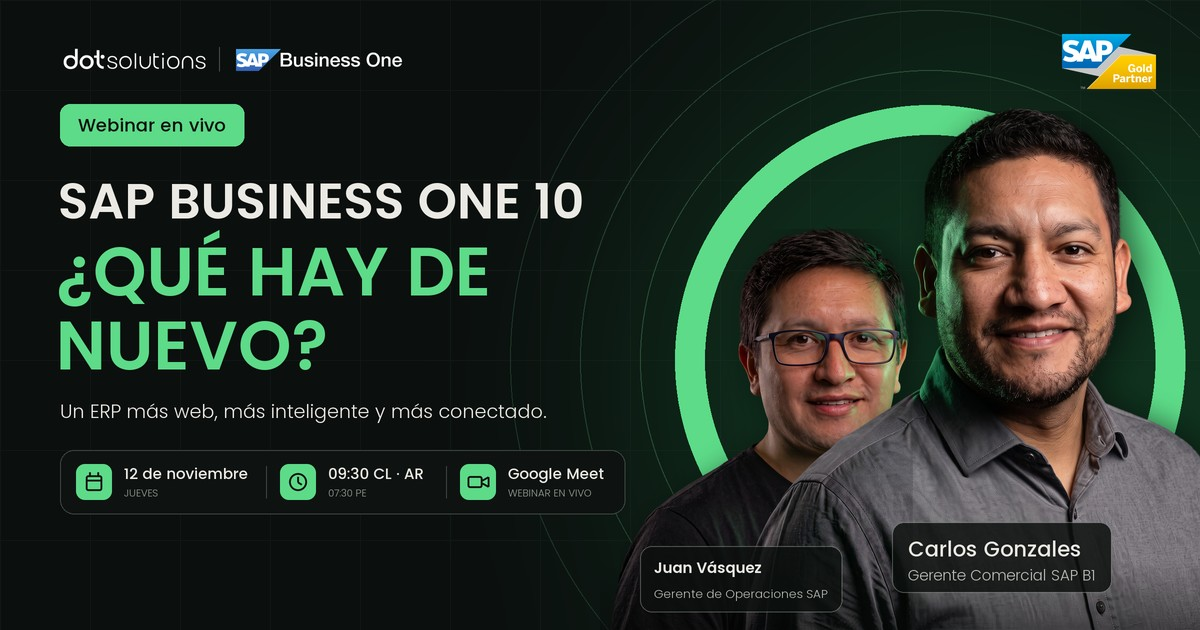
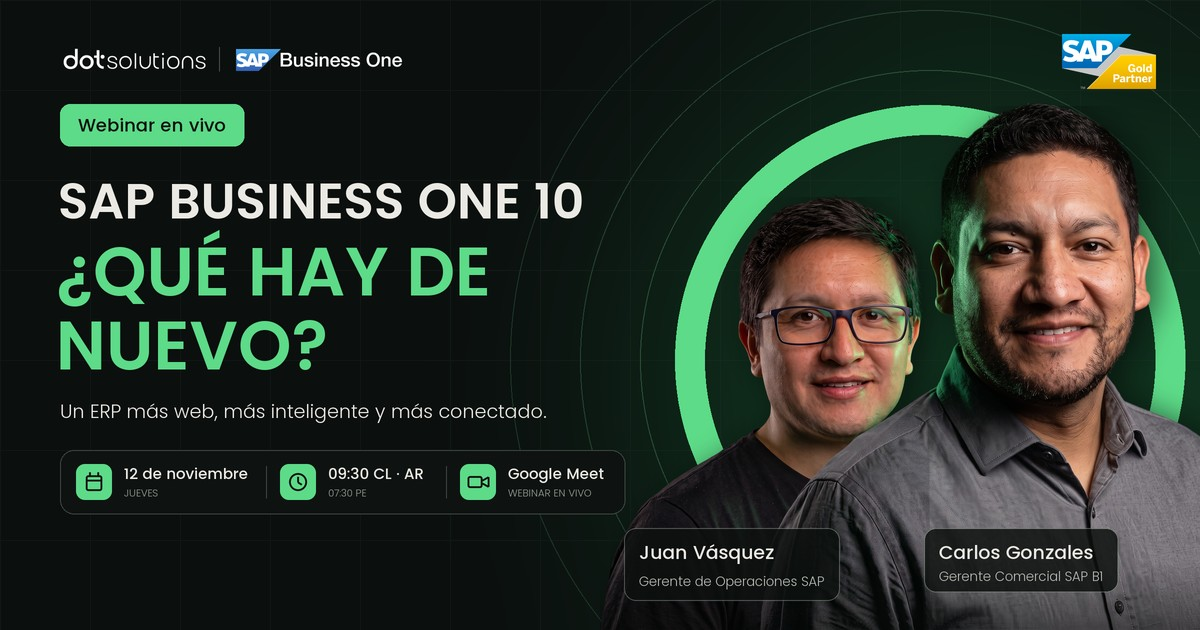
Speakers con jerarquía equilibrada (Carlos ~20% más grande que Juan)

Changed region(s): [[0.4933, 0.1508, 1.0, 1.0], [0.8017, 0.9651, 0.8325, 0.9952]]

diff --git a/index.html b/index.html
@@ -116,7 +116,7 @@ section{position:relative;padding:clamp(80px,11vw,140px) 0}
 .stage-people{position:absolute;inset:0;clip-path:inset(-60% 0 0 0 round 32px)}
 .stage-people img{position:absolute;bottom:0;height:74%;width:auto}
 .stage-people .p-carlos{right:-6%;height:84%}
-.stage-people .p-antonio{left:-1%;height:62%}
+.stage-people .p-antonio{left:-1%;height:70%}
 .stage-fade{position:absolute;left:0;right:0;bottom:0;height:30%;border-radius:0 0 32px 32px;background:linear-gradient(180deg,transparent,rgba(11,15,13,.95))}
 .stage-names{position:absolute;left:24px;right:24px;bottom:20px;display:flex;justify-content:space-between;gap:12px}
 .stage-names div:last-child{text-align:right}
